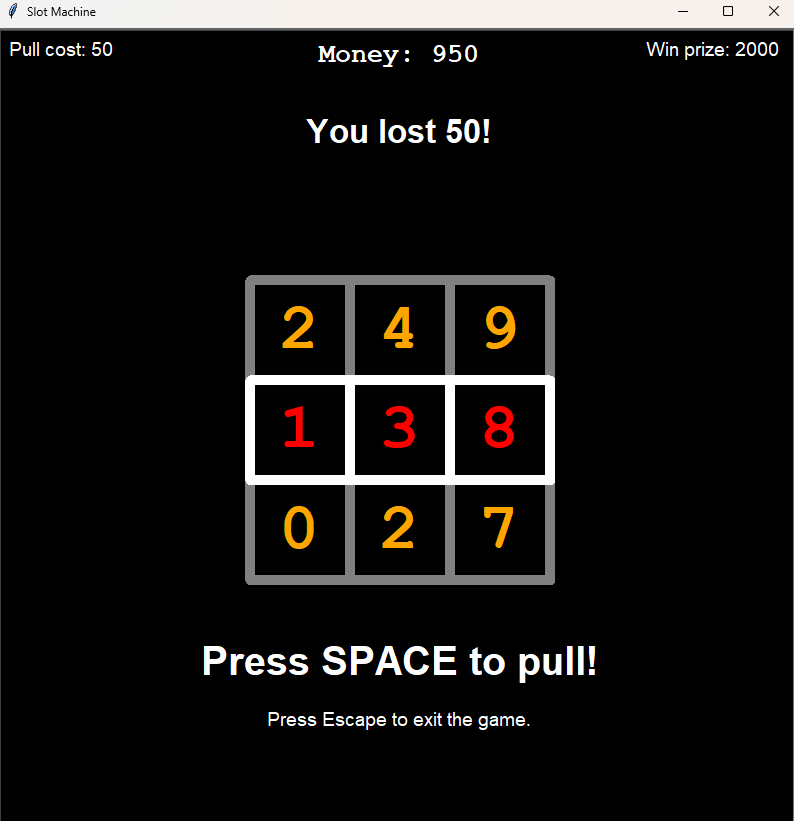
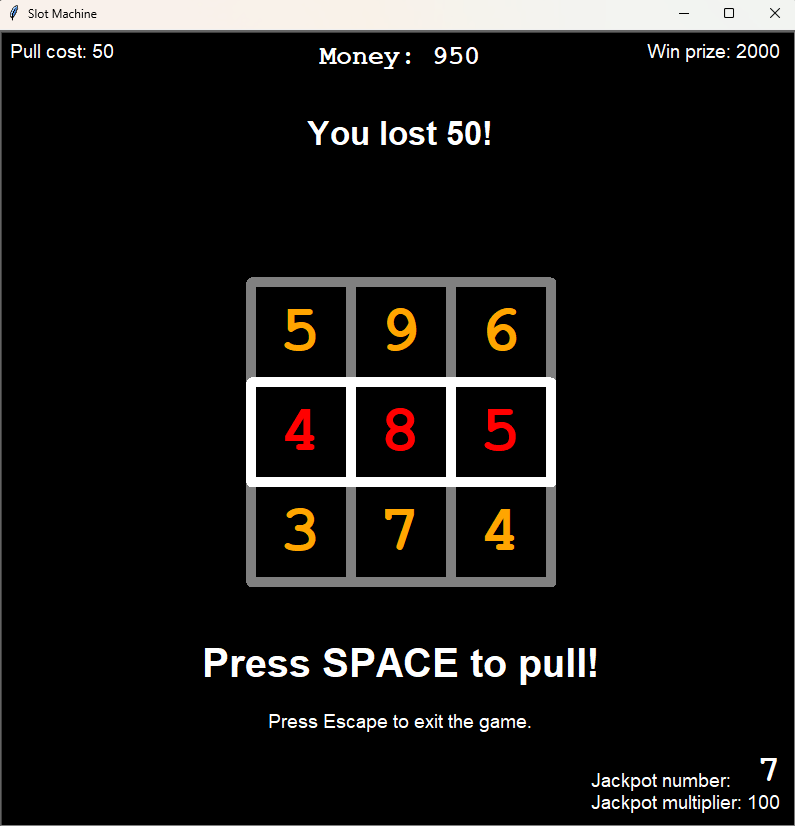
Update jackpot display logic
- Refactored jackpot display method to reduce redundancy.
- Added early return for the disabled jackpot case.
- Streamlined the logic for displaying jackpot symbol or number.
- Improved readability and maintainability of the code.
- Updated screenshots.

diff --git a/src/money.py b/src/money.py
@@ -124,18 +124,32 @@ class Money(Turtle):
         If jackpot is disabled then it shows "JACKPOT DISABLED" instead.
         """
         self.goto(JACKPOT_X_POSITION, JACKPOT_Y_POSITION)
-        if self.jackpot_enabled:
-            if self.symbols_used:
-                self.write(f"Jackpot symbol: {self.get_jackpot_winning_symbol()}"
-                           f"\nJackpot multiplier: {self.get_jackpot_multiplier()}",
-                           align=PRIZE_MESSAGES_ALIGNMENT, font=MONEY_MESSAGES_FONT)
-            else:
-                self.write(f"Jackpot number: {self.get_jackpot_winning_number()}"
-                           f"\nJackpot multiplier: {self.get_jackpot_multiplier()}",
-                           align=PRIZE_MESSAGES_ALIGNMENT, font=MONEY_MESSAGES_FONT)
+
+        # Define larger font size for the jackpot message
+        large_font_size = MONEY_MESSAGES_FONT[1] * 2
+        large_font = (MONEY_FONT[0], large_font_size, MONEY_FONT[2])
+        # Define spacing for moving to a new line
+        line_spacing = large_font_size / 2 + large_font_size / 4
+
+        if not self.jackpot_enabled:
+            self.write("JACKPOT DISABLED", align=PRIZE_MESSAGES_ALIGNMENT, font=MONEY_MESSAGES_FONT)
+            return
+
+        # Determine the jackpot text and label based on symbols_used
+        if self.symbols_used:
+            symbol_or_number = self.get_jackpot_winning_symbol()
+            jackpot_label = "Jackpot symbol:"
         else:
-            self.write("\nJACKPOT DISABLED",
-                       align=PRIZE_MESSAGES_ALIGNMENT, font=MONEY_MESSAGES_FONT)
+            symbol_or_number = self.get_jackpot_winning_number()
+            jackpot_label = "Jackpot number:"
+
+        # Display the jackpot text in a larger font
+        self.write(symbol_or_number, align=PRIZE_MESSAGES_ALIGNMENT, font=large_font)
+        # Move to a new line for the rest of the text
+        self.goto(JACKPOT_X_POSITION, JACKPOT_Y_POSITION - line_spacing)
+        # Display the jackpot information in the original font
+        jackpot_info = f"{jackpot_label} \nJackpot multiplier: {self.get_jackpot_multiplier()}"
+        self.write(jackpot_info, align=PRIZE_MESSAGES_ALIGNMENT, font=MONEY_MESSAGES_FONT)
 
     def get_win_prize(self) -> int:
         """

diff --git a/src/config.py b/src/config.py
@@ -50,7 +50,7 @@ JACKPOT_WINNING_NUMBER: int = 7  # Must be included in SLOT_NUMBERS list
 JACKPOT_PRIZE_MULTIPLIER: int = 100
 JACKPOT_COLOR: str = "orange"
 JACKPOT_X_POSITION: int = 380
-JACKPOT_Y_POSITION: int = -380
+JACKPOT_Y_POSITION: int = -360
 
 # Game logic
 MIN_PULL_CYCLES: int = 10  # Must be at least 1 and not greater than MAX_PULL_CYCLES
